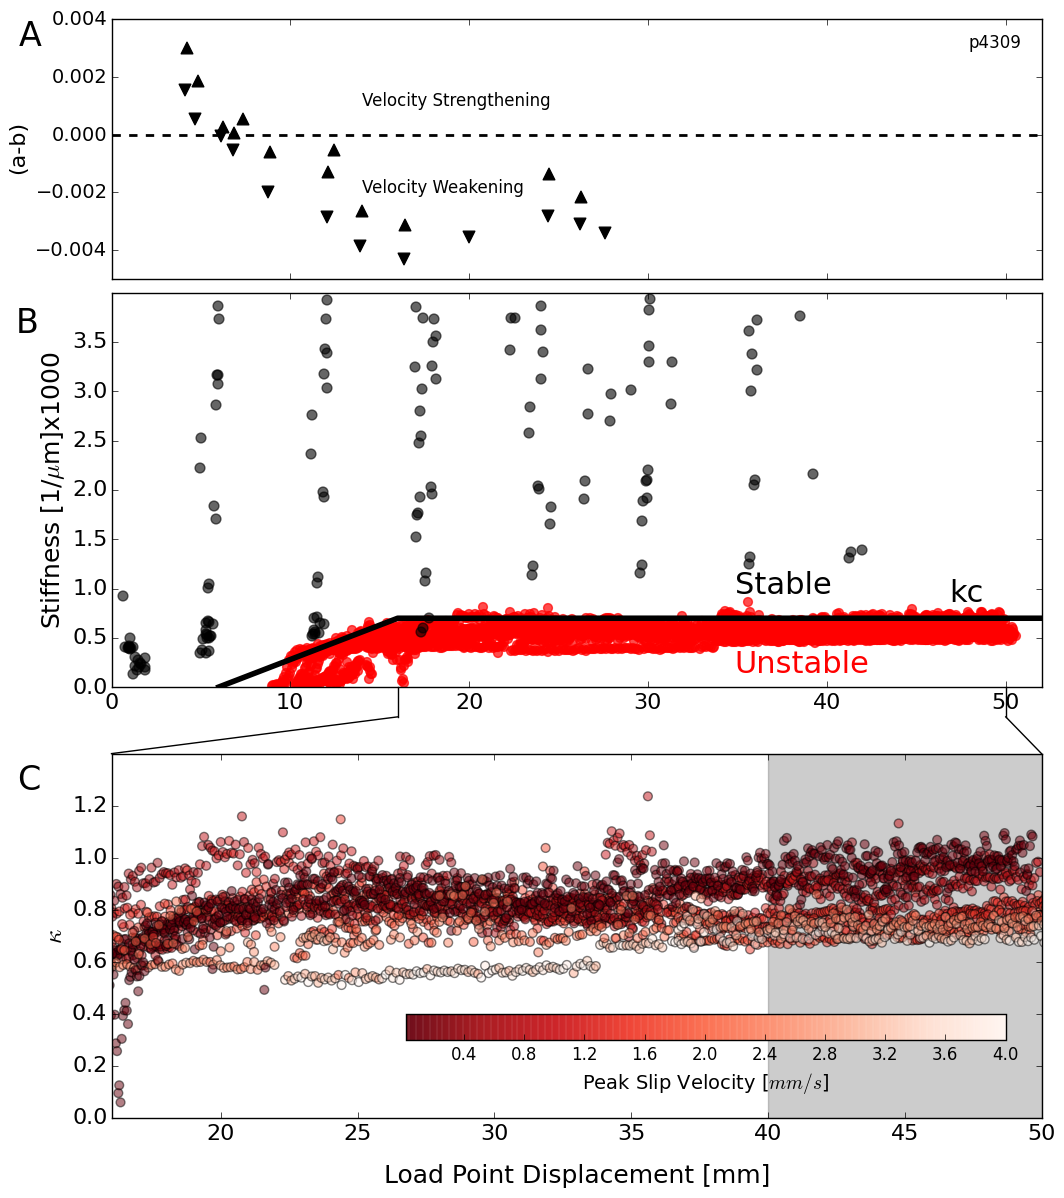
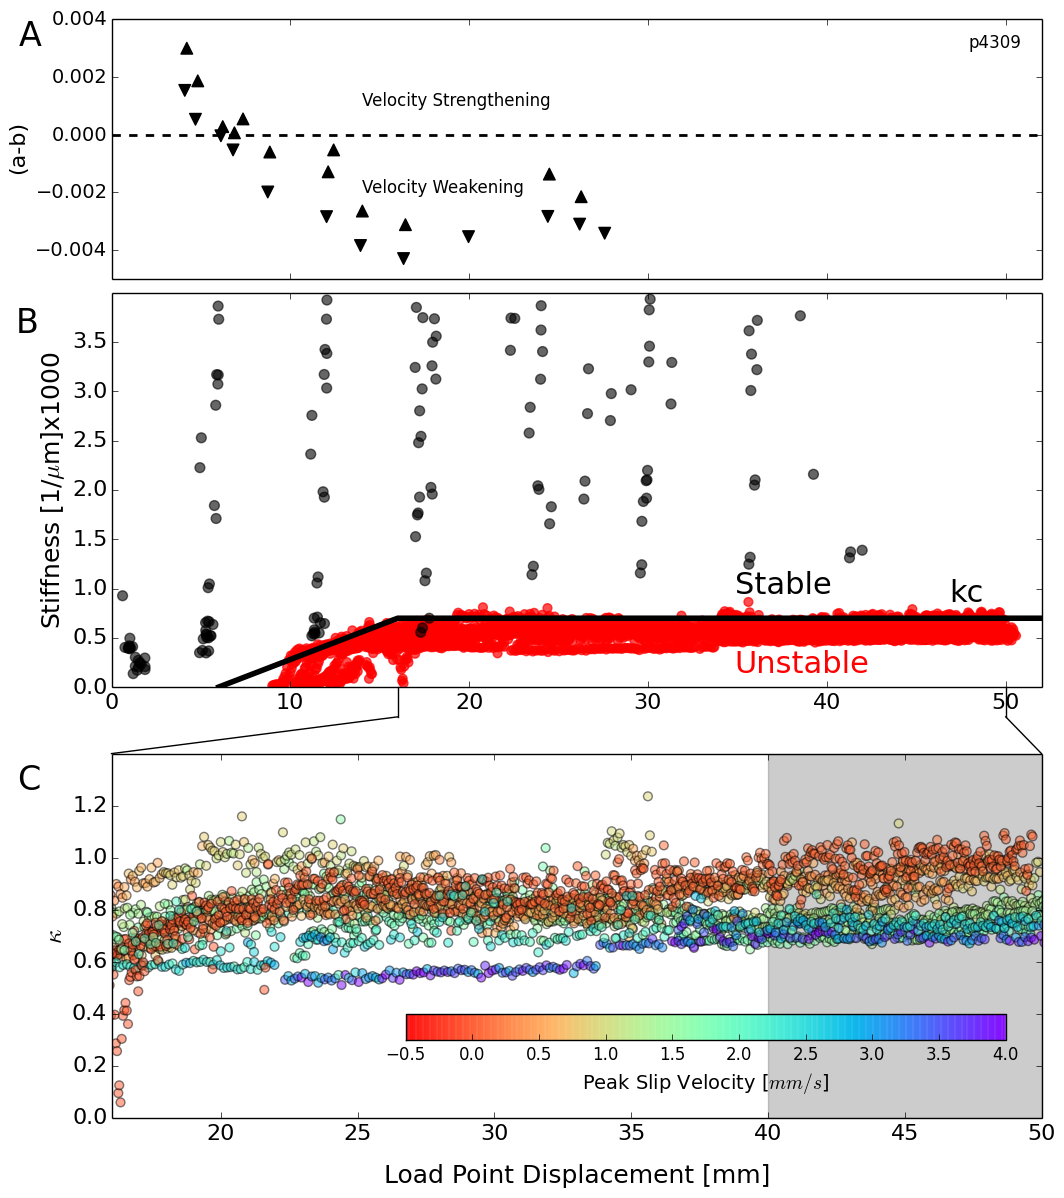
Change colorbar again

Changed region(s): [[0.093, 0.6795, 0.9925, 0.9265]]

diff --git a/Figures/Fig_Slip_Properties/make_final_plot.py b/Figures/Fig_Slip_Properties/make_final_plot.py
@@ -293,11 +293,12 @@ ax3.get_yaxis().set_ticks([0,0.2,0.4,0.6,0.8,1.0,1.2])
 ax3.text(-0.1,0.9,'C',transform = ax3.transAxes,fontsize=24)
 
 low_color = 10./1000.
+low_color = -0.5
 high_color = 4000./1000.
 color_map = plt.get_cmap('rainbow_r')
-color_map = plt.get_cmap('YlOrBr_r')
-color_map = plt.get_cmap('YlOrRd_r')
-color_map = plt.get_cmap('Reds_r')
+#color_map = plt.get_cmap('YlOrBr_r')
+#color_map = plt.get_cmap('YlOrRd_r')
+#color_map = plt.get_cmap('Reds_r')
 
 
 marker_size = 40
